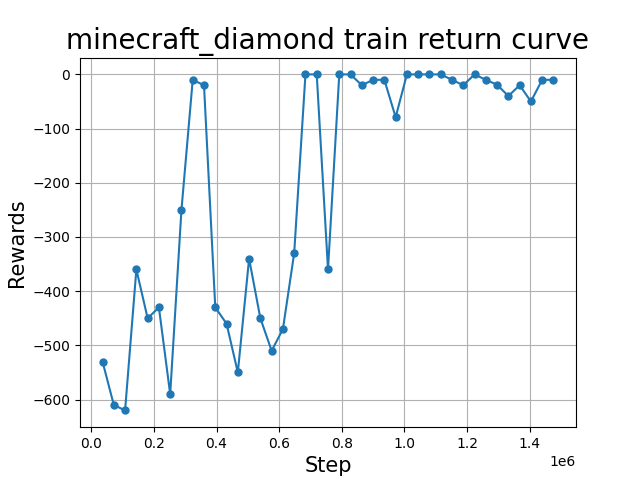
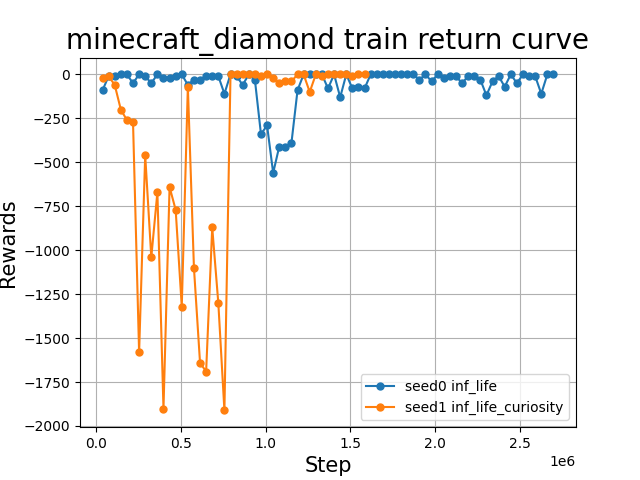
ball env complete

diff --git a/envs/ball.py b/envs/ball.py
@@ -1,0 +1,297 @@
+import numpy as np 
+import cv2 
+import math
+import matplotlib.pyplot as plt
+import PIL.Image as Image
+import gym
+import random
+
+from gym import Env, spaces
+import time
+
+font = cv2.FONT_HERSHEY_COMPLEX_SMALL 
+
+# class Point(object):
+#     def __init__(self, name, x_max, x_min, y_max, y_min, grid_w):
+#         self.x = 0
+#         self.y = 0
+#         self.x_min = x_min
+#         self.x_max = x_max
+#         self.y_min = y_min
+#         self.y_max = y_max
+#         self.name = name
+#         self.grid_w = grid_w
+#         self.rad = self.grid_w//2
+    
+#     def set_position(self, x, y):
+#         self.x_center = x
+#         self.y_center = y
+    
+#     def get_position(self):
+#         return (self.x_center, self.y_center)
+    
+#     def move(self, new_xid, new_yid):
+#         self.x_center = new_xid*self.grid_w + self.rad
+#         self.y_center = new_yid*self.grid_w + self.rad
+
+#     # def clamp(self, n, minn, maxn):
+#     #     return max(min(maxn, n), minn)
+
+# class Ball(Point):
+#     def __init__(self, name, x_max, x_min, y_max, y_min, grid_w):
+#         super(Ball, self).__init__(name, x_max, x_min, y_max, y_min, grid_w)
+#         cv2.circle(img, center, radius, color, -1)
+
+def translate_points(points, translation_vector):
+    return points - translation_vector
+
+def rotate_points_around_origin(points, angle_degrees):
+    # Convert angle from degrees to radians
+    angle_radians = np.radians(angle_degrees)
+    
+    # Define the 2D rotation matrix
+    rotation_matrix = np.array([[np.cos(angle_radians), -np.sin(angle_radians)],
+                                [np.sin(angle_radians), np.cos(angle_radians)]])
+    
+    # Apply rotation to the points
+    rotated_points = np.dot(points, rotation_matrix)
+    
+    return rotated_points
+
+def rotate_points_around_center(points, center, angle_degrees):
+    # Translate the points so that the center becomes the origin
+    translated_points = translate_points(points, center)
+    
+    # Rotate the translated points around the origin
+    rotated_points = rotate_points_around_origin(translated_points, angle_degrees)
+    
+    # Translate the rotated points back to their original position
+    rotated_points = translate_points(rotated_points, -center)
+    
+    return rotated_points
+
+def generate_random_poly_segment(x_range, y_range, degree=5, num_points=256):
+    # Generate random coefficients for the polynomial
+    coefs = np.random.rand(degree+1)
+    
+    # Generate x values within the specified range
+    x_values = np.linspace(x_range[0], x_range[1], num_points)
+    
+    # Calculate y values using the polynomial equation
+    y_values = np.polyval(coefs, x_values)
+    
+    # Scale and shift y values to fit within the specified y range
+    y_values = (y_values - np.min(y_values)) / (np.max(y_values) - np.min(y_values))
+    y_values = y_values * (y_range[1] - y_range[0]) + y_range[0]
+    
+    # Combine x and y values into a 2D array
+    polynomial_segment = np.column_stack((x_values, y_values))
+    
+    return polynomial_segment
+
+
+
+class BallEnv(Env):
+    def __init__(self, shape=(64, 64, 3), grid_w=4):
+        super(BallEnv, self).__init__()
+    
+        # Define a 2-D observation space
+        self.observation_shape = shape
+
+        self.xgrid = self.observation_shape[1]//grid_w
+        self.ygrid = self.observation_shape[0]//grid_w
+        
+        self.max_steps = self.observation_shape[0]
+        
+        self.grid_w = grid_w
+        self.rad = self.grid_w//2
+        
+        # Define elements present inside the environment
+        # self.elements = ["ball"]
+
+        # Permissible area of ball to be 
+        self.y_min = int (self.observation_shape[0]+self.rad)
+        self.x_min = int (self.observation_shape[1]+self.rad)
+        self.y_max = int (self.observation_shape[0]-self.rad)
+        self.x_max = int (self.observation_shape[1]-self.rad)
+
+        self.green = (0, 255, 0)
+        self.red = (0, 0, 255)
+        self.white = (255, 255, 255)
+        self.black = (0, 0, 0)
+    
+    @property
+    def observation_space(self):
+        spaces.Box(low = np.zeros(self.observation_shape), 
+                    high = np.ones(self.observation_shape)*255,
+                    dtype = np.float16)
+
+    @property
+    def action_space(self):
+        return spaces.Box(low = np.zeros(2), 
+                          high = np.array([self.xgrid, self.ygrid]),
+                          dtype = np.float16)
+
+    def draw_on_img(self, xid, yid):
+        self.img = np.ones(self.observation_shape) * 1
+        cv2.circle(self.img, (yid*self.grid_w + self.rad, xid*self.grid_w + self.rad), self.rad, self.red, -1)
+        return self.img
+    
+    def flatten2d_idx(self, x, y):
+        return self.ygrid*min(math.floor(y/self.grid_w), self.ygrid-1) + \
+                min(math.floor(x/self.grid_w), self.xgrid-1)
+    
+    def to2d_idx(self, idx):
+        yid = idx//self.ygrid
+        xid = idx%self.ygrid
+        return xid, yid
+    
+    def reset(self, degree=5, num_points=256):
+        self.steps = 0
+        self.bc_cells = {}
+        
+        polynomial_segment = generate_random_poly_segment((self.grid_w, self.observation_shape[1]-self.grid_w), (self.grid_w, self.observation_shape[0]-self.grid_w), degree=degree, num_points=num_points)
+        
+        rotation_center = np.array([self.observation_shape[1]//2, self.observation_shape[0]//2])
+
+        rotated_segment = rotate_points_around_center(polynomial_segment, rotation_center, random.uniform(0, 360))
+        
+        traj_points = []
+
+        for p in rotated_segment:
+            if (p[0] >= self.grid_w) and (p[0] <= self.observation_shape[1]-self.grid_w) and (p[1] >= self.grid_w) and (p[1] <= self.observation_shape[0]-self.grid_w):
+                traj_points.append(p)
+        
+        num_points = len(traj_points)
+        
+        cells = {}
+
+        for i in range(num_points):
+            cells[self.flatten2d_idx(traj_points[i][1], traj_points[i][0])] = i
+        
+        cells = sorted(cells, key=lambda k: cells[k])
+
+        self.num_cells = len(cells)
+
+        # for i in range(self.num_cells//2):
+        #     self.bc_cells[cells[i]] = ["green", 0]
+        
+        # for i in range(self.num_cells//2, self.num_cells):
+        #     self.bc_cells[cells[i]] = ["red", 0]
+
+        self.bc_cells[cells[0]] = ["green", 1]
+        for i in range(1, self.num_cells):
+            self.bc_cells[cells[i]] = ["black", 0]
+
+        self.obs = {
+                    "image": np.ones(self.observation_shape) * 255,
+                    "pos": list(self.to2d_idx(cells[0])),
+                    "is_first": True,
+                    "is_last": False,
+                    "is_terminal": False,
+                }
+        
+        self.path_cover = 1
+
+
+        for color_cell_idx, value in self.bc_cells.items():
+            yidx = color_cell_idx//self.ygrid
+            xidx = color_cell_idx%self.ygrid
+            cv2.circle(self.obs["image"], (yidx*self.grid_w + self.rad, xidx*self.grid_w + self.rad), self.rad, self.black, -1)
+        
+        cv2.circle(self.obs["image"], (self.obs["pos"][1]*self.grid_w + self.rad, self.obs["pos"][0]*self.grid_w + self.rad), self.rad, self.green, -1)
+        
+        # cv2.imwrite("../plots/ball_env.jpg", self.obs["image"])
+
+        return self.obs
+
+    def step(self, action):
+        # action = (x, y) coordinates
+
+        xid = min(math.floor(action[0]/self.grid_w), self.xgrid-1)
+        yid = min(math.floor(action[1]/self.grid_w), self.ygrid-1)
+
+        
+        flat_id = self.flatten2d_idx(action[0], action[1])
+
+        if self.steps < self.max_steps//2:
+            color_name = "green"
+        else:
+            color_name = "red"
+
+        color = self.green if color_name == "green" else self.red
+        
+
+        if flat_id in self.bc_cells:
+            color = (255,0,0)
+            # only first visit to a critical cell counts
+            if not self.bc_cells[flat_id][1]:
+                self.path_cover += 1
+            reward = -self.bc_cells[flat_id][1]
+            self.bc_cells[flat_id][1] += 1
+
+        else:
+            reward = -1
+
+        
+
+        obs = self.obs.copy()
+
+        # whiten the previous ball
+        cv2.circle(obs["image"], (obs["pos"][1]*self.grid_w + self.rad, obs["pos"][0]*self.grid_w + self.rad), self.rad, self.white, -1)
+
+        obs["pos"] = [xid, yid]
+        obs["is_first"] = False
+        obs["is_last"] = False
+        obs["is_terminal"] = False
+
+        done = False
+        info = "Ball moving..."
+
+
+        cv2.circle(obs["image"], (yid*self.grid_w + self.rad, xid*self.grid_w + self.rad), self.rad, color, -1)
+
+        self.obs = obs
+        self.steps += 1
+
+        if self.steps >= self.max_steps:
+            done = True
+            info = "Max length reached :("
+        
+        if self.path_cover >= self.num_cells:
+            done = True
+            info = "Entire path covered :)"
+
+        if done:
+            obs["is_last"] = True
+            obs["is_terminal"] = True
+            
+        return self.obs, reward, done, info
+
+    def close(self):
+        cv2.destroyAllWindows()
+
+
+if __name__ == "__main__":
+    env = BallEnv()
+    obs = env.reset()
+    done = False
+    cv2.imwrite("../experiments/ball/step{}.jpg".format(env.steps), obs["image"])
+
+    while not done:
+        action = np.random.uniform(0, env.observation_shape[0], size=2)
+        obs, reward, done, _ = env.step(action)
+
+        cv2.imwrite("../experiments/ball/step{}.jpg".format(env.steps), obs["image"])
+
+
+
+        
+
+
+    
+
+
+
+
+        

diff --git a/envs/minecraft.py b/envs/minecraft.py
@@ -558,6 +558,7 @@ class Minecraft(gym.Wrapper):
             "iron_pickaxe",
             "diamond",
         ]
+        
         self.other_rewards = [CollectReward(item, once=1) for item in self.items] + [HealthReward()]
 
 
@@ -603,18 +604,28 @@ class CollectReward:
     def __call__(self, obs, inventory):
         item_inv_idx = find_index(inventory["id"], self.item_id)
         current = inventory["quantity"][item_inv_idx] if item_inv_idx >= 0 else 0
+        
+        # if the useful item is found
         if item_inv_idx >= 0:
             print("The useful item name is {}".format(inventory["name"][item_inv_idx]))
             print("The useful item id is {}".format(inventory["id"][item_inv_idx]))
+            print("The useful item quantity is {}".format(inventory["quantity"][item_inv_idx]))
+        
         if obs["is_first"]:
             self.previous = current
             # self.maximum = current
             return 0
+        
         reward = self.repeated * max(0, current - self.previous)
         # if self.maximum == 0 and current > 0:
+
+        # if this item was not collected before
         if (current > self.previous) and (not self.previous):
             reward += self.once
+        
+        # if we lose the item
         elif (not current) and self.previous:
+            print("The item {} is lost!".format(self.item))
             reward -= self.once
         self.previous = current
         # self.maximum = max(self.maximum, current)
@@ -628,7 +639,9 @@ class HealthReward:
 
     def __call__(self, obs, inventory=None):
         health = obs["health"]
-        if obs["is_first"] or (not self.previous):
+
+        # env rest or just revived
+        if obs["is_first"] or (self.previous <= 0):
             self.previous = health
             return 0
         delta_health = health - self.previous

diff --git a/plot.py b/plot.py
@@ -23,8 +23,9 @@ if __name__ == "__main__":
     return_mode = "{}_return".format(mode)
     plot_txt = 'plots/{0}_rewards.png'.format(env)
     
-    methods = ["vanilla", "0.05-greedy", "0.5-0.05 decay"]
-    seeds = ["", "1", "2"]
+    # methods = ["vanilla", "0.05-greedy", "0.5-0.05 decay"]
+    methods = ["inf_life", "inf_life_curiosity"]
+    seeds = ["0","1"]
 
     rmin = 0
     rmax = 0
@@ -53,7 +54,7 @@ if __name__ == "__main__":
 
 
     plt.grid(True)
-    plt.yticks(np.arange(math.floor(rmin-1), math.ceil(rmax+1), 1.0))
+    # plt.yticks(np.arange(math.floor(rmin-1), math.ceil(rmax+1), 1.0))
     plt.xlabel('Step', fontsize = 15)
     plt.ylabel('Rewards', fontsize = 15)
     plt.legend(loc='lower right', bbox_to_anchor=(0.5, 0., 0.5, 0.5))

diff --git a/models.py b/models.py
@@ -468,9 +468,10 @@ class ImagBehavior(nn.Module):
             metrics.update(self._actor_opt(actor_loss, self.actor.parameters()))
             metrics.update(self._value_opt(value_loss, self.value.parameters()))
             
-            self._world_model.rnd_model.opt.zero_grad()
-            rnd_loss.backward()
-            self._world_model.rnd_model.opt.step()
+            if self._config.curiosity == 'rnd':
+                self._world_model.rnd_model.opt.zero_grad()
+                rnd_loss.backward()
+                self._world_model.rnd_model.opt.step()
 
         return imag_feat, imag_state, imag_action, weights, metrics
 

diff --git a/envs/minecraft_base.py b/envs/minecraft_base.py
@@ -177,6 +177,9 @@ class MinecraftBase(gym.Env):
         obs = self._obs(obs)
         # print(obs["inventory_names"])
         # self._step += 1
+        if obs["health"] <= 0.0:
+            done = True
+            
         assert "pov" not in obs, list(obs.keys())
         return obs, reward, done, info
 
